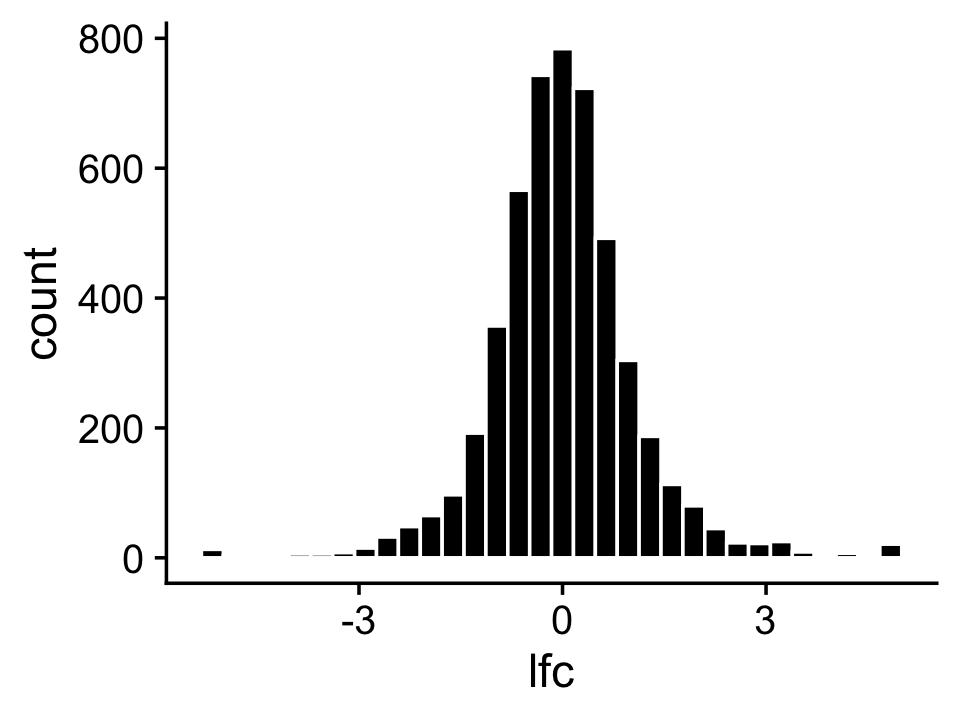
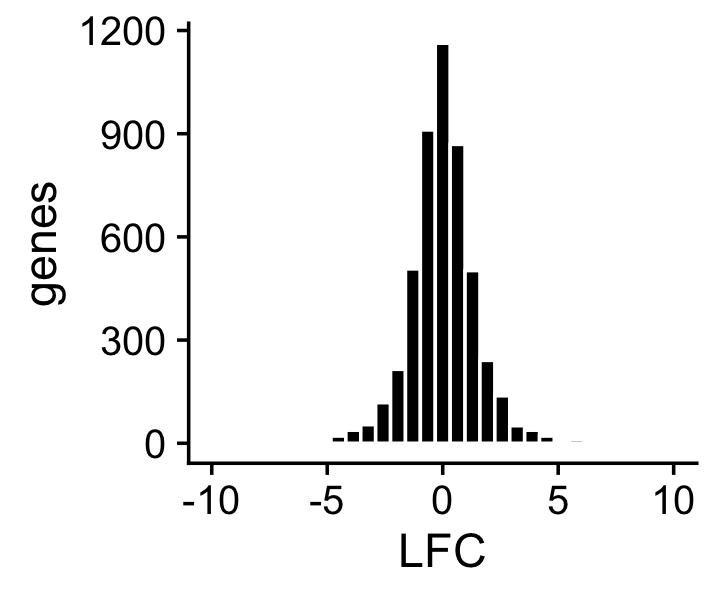
Fixed the plots showing properties of the simulated data in the de_analysis_detailed_look analysis.

Changed region(s): [[0.0306, 0.03, 0.9778, 0.96], [0.6417, 0.93, 0.6722, 0.96]]

diff --git a/docs/de_analysis_detailed_look.html b/docs/de_analysis_detailed_look.html
@@ -323,7 +323,7 @@ $(document).ready(function () {
 <div class="tab-content">
 <div id="summary" class="tab-pane fade in active">
 <p>
-<strong>Last updated:</strong> 2021-10-11
+<strong>Last updated:</strong> 2021-10-12
 </p>
 <p>
 <strong>Checks:</strong> <span class="glyphicon glyphicon-ok text-success" aria-hidden="true"></span> 7 <span class="glyphicon glyphicon-exclamation-sign text-danger" aria-hidden="true"></span> 0
@@ -414,16 +414,16 @@ This reproducible <a href="http://rmarkdown.rstudio.com">R Markdown</a> analysis
 <div class="panel panel-default">
 <div class="panel-heading">
 <p class="panel-title">
-<a data-toggle="collapse" data-parent="#workflowr-checks" href="#strongRepositoryversionstrongahrefhttpsgithubcomstephenslabsinglecelltopicstreee2577f16eb889cb6059447c4e46224282d9f28d4targetblanke2577f1a"> <span class="glyphicon glyphicon-ok text-success" aria-hidden="true"></span> <strong>Repository version:</strong> <a href="https://github.com/stephenslab/single-cell-topics/tree/e2577f16eb889cb6059447c4e46224282d9f28d4" target="_blank">e2577f1</a> </a>
+<a data-toggle="collapse" data-parent="#workflowr-checks" href="#strongRepositoryversionstrongahrefhttpsgithubcomstephenslabsinglecelltopicstree2726a8651c8e07596cf2de0d4bbff1fe60d8d21dtargetblank2726a86a"> <span class="glyphicon glyphicon-ok text-success" aria-hidden="true"></span> <strong>Repository version:</strong> <a href="https://github.com/stephenslab/single-cell-topics/tree/2726a8651c8e07596cf2de0d4bbff1fe60d8d21d" target="_blank">2726a86</a> </a>
 </p>
 </div>
[2 lines of base64/hex data omitted]
 <div class="panel-body">
 <p>
 Great! You are using Git for version control. Tracking code development and connecting the code version to the results is critical for reproducibility.
 </p>
 <p>
-The results in this page were generated with repository version <a href="https://github.com/stephenslab/single-cell-topics/tree/e2577f16eb889cb6059447c4e46224282d9f28d4" target="_blank">e2577f1</a>. See the <em>Past versions</em> tab to see a history of the changes made to the R Markdown and HTML files.
+The results in this page were generated with repository version <a href="https://github.com/stephenslab/single-cell-topics/tree/2726a8651c8e07596cf2de0d4bbff1fe60d8d21d" target="_blank">2726a86</a>. See the <em>Past versions</em> tab to see a history of the changes made to the R Markdown and HTML files.
 </p>
 <p>
 Note that you need to be careful to ensure that all relevant files for the analysis have been committed to Git prior to generating the results (you can use <code>wflow_publish</code> or <code>wflow_git_commit</code>). workflowr only checks the R Markdown file, but you know if there are other scripts or data files that it depends on. Below is the status of the Git repository when the results were generated:
@@ -485,6 +485,40 @@ Message
 </tr>
 </thead>
 <tbody>
+<tr>
+<td>
+Rmd
+</td>
+<td>
+<a href="https://github.com/stephenslab/single-cell-topics/blob/2726a8651c8e07596cf2de0d4bbff1fe60d8d21d/analysis/de_analysis_detailed_look.Rmd" target="_blank">2726a86</a>
+</td>
+<td>
+Peter Carbonetto
+</td>
+<td>
+2021-10-12
+</td>
+<td>
+workflowr::wflow_publish(“de_analysis_detailed_look.Rmd”)
+</td>
+</tr>
+<tr>
+<td>
+html
+</td>
+<td>
+<a href="https://rawcdn.githack.com/stephenslab/single-cell-topics/b8eadee74bec2b96540bc9b4ca80482e3ef22942/docs/de_analysis_detailed_look.html" target="_blank">b8eadee</a>
+</td>
+<td>
+Peter Carbonetto
+</td>
+<td>
+2021-10-11
+</td>
+<td>
+Added some basic histograms to the de_analysis_detailed_look analysis.
+</td>
+</tr>
 <tr>
 <td>
 Rmd
@@ -570,35 +604,150 @@ library(cowplot)
 source(&quot;../code/de_eval_functions.R&quot;)</code></pre>
 <div id="simulate-umi-counts" class="section level2">
 <h2>Simulate UMI counts</h2>
-<p>We begin by simulating counts intended to “mimic” UMI count data from a single-cell RNA sequencing experiment. In particular, we simulate counts <span class="math inline">\(x_{ij}\)</span> from a Poisson NMF model <span class="math inline">\(x_{ij} \sim \mathrm{Poisson}(\lambda_{ij})\)</span>, such that <span class="math inline">\(\lambda_{ij} = \sum_{k=1}^K l_{ik} f_{jk}\)</span>. For now we focus our attention on the case of <span class="math inline">\(K = 2\)</span> topics (e.g., two cell types or two cell states) to simplify the analysis; comparing gene expression between three or topics brings some additional complications which aren’t necessary for vunderstanding the properties of the new DE methods.</p>
+<p>We begin by simulating counts intended to “mimic” UMI count data from a single-cell RNA sequencing experiment. In particular, we simulate counts <span class="math inline">\(x_{ij}\)</span> from a Poisson NMF model <span class="math inline">\(x_{ij} \sim \mathrm{Poisson}(\lambda_{ij})\)</span>, such that <span class="math inline">\(\lambda_{ij} = \sum_{k=1}^K l_{ik} f_{jk}\)</span>. We focus our attention on the <span class="math inline">\(K = 2\)</span> case to simplify the analysis; comparing gene expression between three or topics brings some additional complications which aren’t necessary for assessing basic properties of the new DE methods. The simulation of the topic proportions <span class="math inline">\(l_{ik}\)</span> and the gene expression rates <span class="math inline">\(f_{jk}\)</span> is described in the comments accompanying function <code>simulate_twotopic_umi_data</code>.</p>
 <pre class="r"><code>set.seed(1)
 dat &lt;- simulate_twotopic_umi_data()
 X &lt;- dat$X</code></pre>
-<p>The multinomial sample sizes (the total count in each cell) were simulated to be normally distributed on the (base-10) log scale with mean 3.2 and s.d. 0.2:</p>
+<p>The sample sizes (total counts for each cell) in the simulated data are roughly normally distributed on the (base-10) log scale with mean 3.2 and standard deviation 0.2:</p>
 <pre class="r"><code>s &lt;- rowSums(X)
-ggplot(data.frame(s = log10(s)),aes(x = s)) +
+p1 &lt;- ggplot(data.frame(s = log10(s)),aes(x = s)) +
   geom_histogram(color = &quot;white&quot;,fill = &quot;black&quot;,bins = 32) +
   labs(x = &quot;log10 size&quot;,y = &quot;cells&quot;) +
-  theme_cowplot()</code></pre>
-<p><img src="figure/de_analysis_detailed_look.Rmd/sizes-1.png" width="480" style="display: block; margin: auto;" /></p>
-<pre class="r"><code>mean(log10(s))
+  theme_cowplot()
+print(p1)
+mean(log10(s))
 sd(log10(s))
-# [1] 3.25348
-# [1] 0.1849638</code></pre>
-<p>We have simulated the expression rates so that they are normally distributed on the log scale:</p>
-<pre class="r"><code>ggplot(data.frame(f = as.vector(dat$F)),aes(x = log10(f))) +
+# [1] 3.291997
+# [1] 0.2360261</code></pre>
+<p><img src="figure/de_analysis_detailed_look.Rmd/sizes-1.png" width="360" style="display: block; margin: auto;" /></p>
+<p>
+<button type="button" class="btn btn-default btn-xs btn-workflowr btn-workflowr-fig" data-toggle="collapse" data-target="#fig-sizes-1">
+Past versions of sizes-1.png
+</button>
+</p>
+<div id="fig-sizes-1" class="collapse">
+<div class="table-responsive">
+<table class="table table-condensed table-hover">
+<thead>
+<tr>
+<th>
+Version
+</th>
+<th>
+Author
+</th>
+<th>
+Date
+</th>
+</tr>
+</thead>
+<tbody>
+<tr>
+<td>
+<a href="https://github.com/stephenslab/single-cell-topics/blob/b8eadee74bec2b96540bc9b4ca80482e3ef22942/docs/figure/de_analysis_detailed_look.Rmd/sizes-1.png" target="_blank">b8eadee</a>
+</td>
+<td>
+Peter Carbonetto
+</td>
+<td>
+2021-10-11
+</td>
+</tr>
+</tbody>
+</table>
+</div>
+</div>
+<p>We have generated the expression rates so that they are roughly uniformly distributed on the log scale:</p>
+<pre class="r"><code>p2 &lt;- ggplot(data.frame(f = as.vector(dat$F)),aes(x = log10(f))) +
   geom_histogram(color = &quot;white&quot;,fill = &quot;black&quot;,bins = 32) +
   labs(x = &quot;log10 expression rate&quot;,y = &quot;genes&quot;) +
-  theme_cowplot()</code></pre>
-<p><img src="figure/de_analysis_detailed_look.Rmd/gene-expression-rates-1.png" width="480" style="display: block; margin: auto;" /></p>
-<p>The log-fold changes (LFCs) in expression are simulated to be roughly t-distibuted with 1.7 degrees of freedom, <span class="math inline">\(\mathrm{lfc\)</span>} 0.7t_{1.7}$:</p>
+  theme_cowplot()
+print(p2)</code></pre>
+<p><img src="figure/de_analysis_detailed_look.Rmd/gene-expression-rates-1.png" width="360" style="display: block; margin: auto;" /></p>
+<p>
+<button type="button" class="btn btn-default btn-xs btn-workflowr btn-workflowr-fig" data-toggle="collapse" data-target="#fig-gene-expression-rates-1">
+Past versions of gene-expression-rates-1.png
+</button>
+</p>
+<div id="fig-gene-expression-rates-1" class="collapse">
+<div class="table-responsive">
+<table class="table table-condensed table-hover">
+<thead>
+<tr>
+<th>
+Version
+</th>
+<th>
+Author
+</th>
+<th>
+Date
+</th>
+</tr>
+</thead>
+<tbody>
+<tr>
+<td>
+<a href="https://github.com/stephenslab/single-cell-topics/blob/b8eadee74bec2b96540bc9b4ca80482e3ef22942/docs/figure/de_analysis_detailed_look.Rmd/gene-expression-rates-1.png" target="_blank">b8eadee</a>
+</td>
+<td>
+Peter Carbonetto
+</td>
+<td>
+2021-10-11
+</td>
+</tr>
+</tbody>
+</table>
+</div>
+</div>
+<p>About half of the genes have differences in expression between the two topics, and among the nonzero gene expression differences, the LFCs are roughly <em>t</em>-distibuted with 3 degrees of freedom:</p>
 <pre class="r"><code>lfc &lt;- log2(dat$F[,1]/dat$F[,2])
+p3 &lt;- ggplot(data.frame(lfc = lfc[lfc != 0]),aes(x = lfc)) +
+  geom_histogram(color = &quot;white&quot;,fill = &quot;black&quot;,bins = 32) +
+  labs(x = &quot;LFC&quot;,y = &quot;genes&quot;) +
+  theme_cowplot()
+print(p3)
 mean(lfc == 0)
-ggplot(data.frame(lfc = lfc[lfc != 0]),aes(x = lfc)) +
-geom_histogram(color = &quot;white&quot;,fill = &quot;black&quot;,bins = 32) +
-  theme_cowplot()</code></pre>
-<p><img src="figure/de_analysis_detailed_look.Rmd/lfc-density-1.png" width="480" style="display: block; margin: auto;" /></p>
-<pre><code># [1] 0.5002</code></pre>
+# [1] 0.5024</code></pre>
+<p><img src="figure/de_analysis_detailed_look.Rmd/lfc-density-1.png" width="360" style="display: block; margin: auto;" /></p>
+<p>
+<button type="button" class="btn btn-default btn-xs btn-workflowr btn-workflowr-fig" data-toggle="collapse" data-target="#fig-lfc-density-1">
+Past versions of lfc-density-1.png
+</button>
+</p>
+<div id="fig-lfc-density-1" class="collapse">
+<div class="table-responsive">
+<table class="table table-condensed table-hover">
+<thead>
+<tr>
+<th>
+Version
+</th>
+<th>
+Author
+</th>
+<th>
+Date
+</th>
+</tr>
+</thead>
+<tbody>
+<tr>
+<td>
+<a href="https://github.com/stephenslab/single-cell-topics/blob/b8eadee74bec2b96540bc9b4ca80482e3ef22942/docs/figure/de_analysis_detailed_look.Rmd/lfc-density-1.png" target="_blank">b8eadee</a>
+</td>
+<td>
+Peter Carbonetto
+</td>
+<td>
+2021-10-11
+</td>
+</tr>
+</tbody>
+</table>
+</div>
+</div>
 <br>
 <p>
 <button type="button" class="btn btn-default btn-workflowr btn-workflowr-sessioninfo" data-toggle="collapse" data-target="#workflowr-sessioninfo" style="display: block;">
